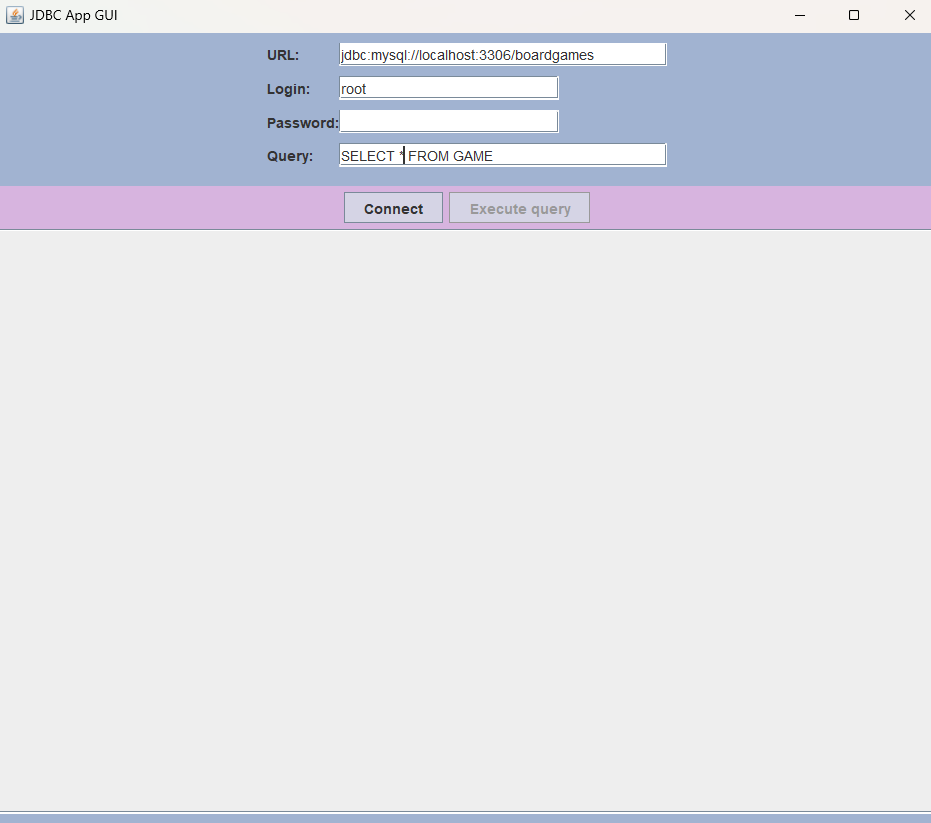
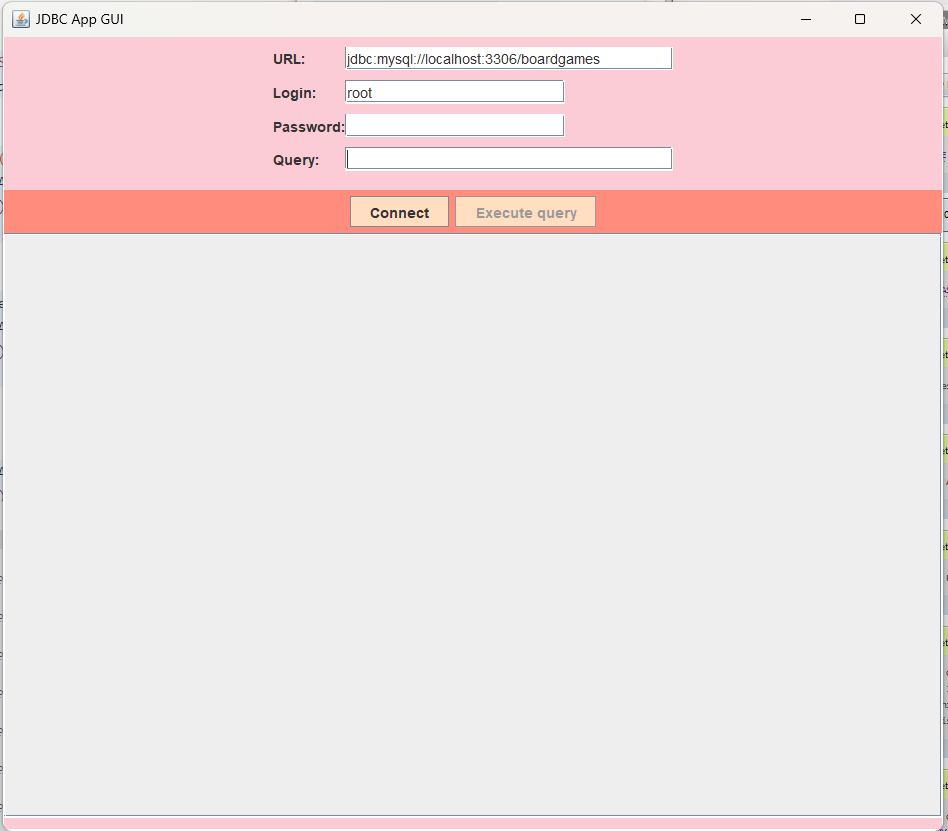
[UP] Better IU

Changed region(s): [[0.0, 0.0, 1.0, 1.0], [0.0, 0.3645, 0.0311, 0.4557]]

diff --git a/JDBCAppGui.java b/JDBCAppGui.java
@@ -2,7 +2,6 @@ import javax.swing.*;
 import javax.swing.table.DefaultTableModel;
 import javax.swing.table.TableCellRenderer;
 import javax.swing.table.TableColumn;
-
 import java.awt.*;
 import java.awt.event.ActionEvent;
 import java.awt.event.ActionListener;
@@ -12,23 +11,27 @@ import java.util.Vector;
 public class JDBCAppGui extends JFrame {
     // Colors
     private static Color BACKGROUND_COLOR = Color.decode("#FFFFFF");
-    private static Color BUTTONS_COLOR = Color.decode("#D5D4E5");
-    private static Color BOTTOM_COLOR = Color.decode("#A1B3D1");
-    private static Color BUTTONS_BACKGROUND_COLOR = Color.decode("#D7B4DF");
-    private static Color INPUT_BACKGROUND_COLOR = Color.decode("#A1B3D1");
+    private static Color BUTTONS_COLOR = Color.decode("#FFDEC1");
+    private static Color SCND_BACKGROUND_COLOR = Color.decode("#FCCCD6");
+    private static Color BUTTONS_BACKGROUND_COLOR = Color.decode("#FF8C7D");
 
+    // Input components
     private JTextField urlField, loginField, passwordField, queryField;
     private JTable resultTable;
     private DefaultTableModel tableModel;
     private JButton connectButton, executeButton;
 
+    // Database connection
     private Connection connection;
     private Statement statement;
+    private static final String DRIVER_NAME = "com.mysql.cj.jdbc.Driver";
+    // Default query at initializing
+    private static final String DEFAULT_QUERY = "SELECT ? FROM GAME;";
 
     public JDBCAppGui() {
-        // Setting up the JFrame
+        // Set up the JFrame
         super("JDBC App GUI");
-        // Set a reasonable initial size
+        // Set initial size
         setSize(800, 700);
         // Let the layout manager handle the sizing
         setPreferredSize(new Dimension(800, 700));
@@ -40,7 +43,7 @@ public class JDBCAppGui extends JFrame {
         urlField = new JTextField("jdbc:mysql://localhost:3306/boardgames", 30);
         loginField = new JTextField("root", 20);
         passwordField = new JPasswordField(20);
-        queryField = new JTextField("SELECT ? FROM GAME", 30);
+        queryField = new JTextField(DEFAULT_QUERY, 30);
 
         // Buttons
         connectButton = new JButton("Connect");
@@ -58,7 +61,7 @@ public class JDBCAppGui extends JFrame {
 
         // Draw the input panel
         JPanel inputPanel = new JPanel(new GridBagLayout());
-        inputPanel.setBackground(INPUT_BACKGROUND_COLOR);
+        inputPanel.setBackground(SCND_BACKGROUND_COLOR);
 
         GridBagConstraints ipc = new GridBagConstraints();
         // Add margin at the bottom with an empty label
@@ -121,7 +124,7 @@ public class JDBCAppGui extends JFrame {
         executeButton.setEnabled(false);
 
         JPanel emptyPanel = new JPanel();
-        emptyPanel.setBackground(BOTTOM_COLOR);
+        emptyPanel.setBackground(SCND_BACKGROUND_COLOR);
         JPanel inputButtonPanel = new JPanel(new BorderLayout());
         inputButtonPanel.add(inputPanel, BorderLayout.NORTH);
         inputButtonPanel.add(buttonPanel, BorderLayout.SOUTH);
@@ -154,7 +157,7 @@ public class JDBCAppGui extends JFrame {
             String password = passwordField.getText();
 
             // Establishing the connection
-            Class.forName("com.mysql.cj.jdbc.Driver");
+            Class.forName(DRIVER_NAME);
             connection = DriverManager.getConnection(url, login, password);
             statement = connection.createStatement();
 

diff --git a/README.md b/README.md
@@ -18,6 +18,7 @@ Java application using JDBC to connect to any database and provide some features
 * A parameted query can also be done, with fields name do set in a wizard
 
 ![queryparameters view](./assets/queryparameters.png)
+![queryparametersresult view](./assets/queryparameters-2.png)
 
 ## Getting Started
 
